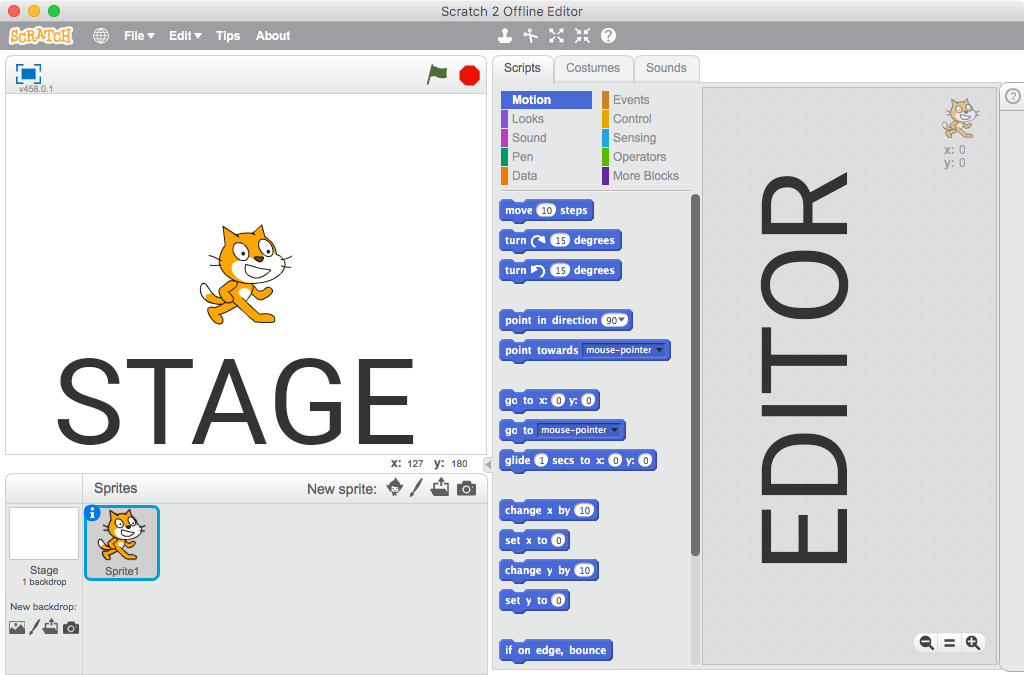
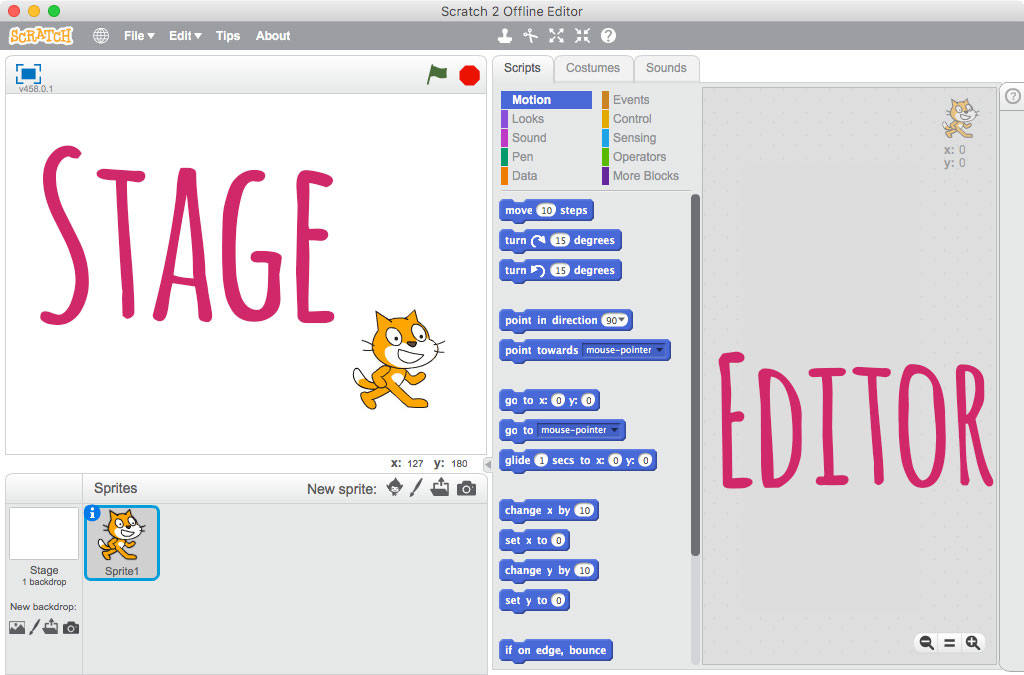
update

diff --git a/README.md b/README.md
@@ -30,26 +30,14 @@ That's
 
 # About Coding Kids and Screaming Carrots
 
-## Feedback Nr. 1
-General:
-+ Past tense.
-+ Paar Folien bisschen länger stehen lassen zum wirken: Internet.
-
-Screaming Carrot
-+ Jeder fragt sich bestimmt warum Screaming
-+ super horse nicht verstandne- alternative? oder rauswerfen.
-
-
 ## Todos
-+ About Me Page
-+ Thank you Page
-+ Where to -> Better Mentoring
++ Make the page
++ Backup Video Carrot
++ Changes: Coding allows you to express yourself.
+
 + Screaming Carrot Fallback Video + Plan Stage (Feedback Hamburg Kamera?)
 + Workshop with mbot, drawbot, hour of code
 + Buy Drawbot Material
-+ GIF Zombie Level
-+ ✅ Emojis kids heads
-+ ✅ GIF Giga TV
 
 ## Conf Bag
 + Robot mbot
@@ -58,9 +46,7 @@ Screaming Carrot
 + Clicker Remote
 
 ## Todo/Fixes
-+ 28min ohne Karotte
 + Stage/Editor Schrift falsch bei Scratch
-+ Stupid Jokes example? (ENtertain the kid inside you)
 
 ## Checklist
 1. Buy Drawbot Parts
